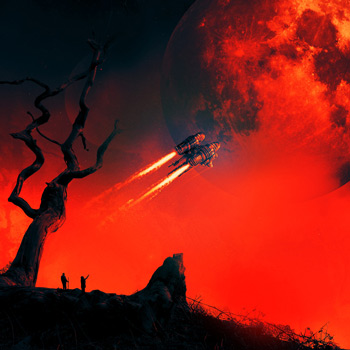
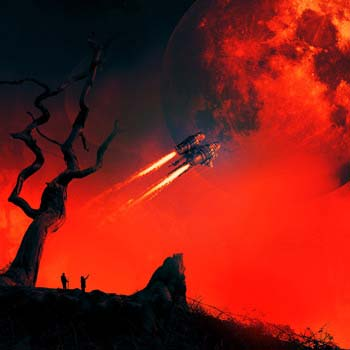
images optimized

diff --git a/index.html b/index.html
@@ -4,7 +4,7 @@
     <meta charset="utf-8">
     <meta name="viewport" content="width=device-width, initial-scale=1, shrink-to-fit=no">
     <meta name="description" content="Across Seconds is a 4 piece experimental/post-prog instrumental rock band. Formed in 2016 in Mumbai, India, they decided to move beyond the clemency of spoken word and let their instruments speak for themselves. Ever since their inception, Across Seconds has always aimed at creating beautifully structured pieces of music that seem like a variegated dance between dreams and reality and take their listeners on a journey from oblivion to tranquility." />
-    <meta name="keywords" content="across seconds, band, music, post rock, indian band, best indian band, top indian band" />
+    <meta name="keywords" content="across seconds, band, music, post rock, indian band, best indian band, top indian band,four lightyears from home, album, music album, post rock album, 4 light years from home, four light years from home, debut album, best album, promising indian band, best indie music, best indie band, best post rock band, post rock band from india" />
     <meta name="author" content="" />
     <link rel="shortcut icon" href="img/favicon.png">
 
@@ -104,6 +104,7 @@
         <div class="row">
           <div id="large-header" class="large-header">
             <canvas id="canvas"></canvas>
+            <h1 class="text-hide">Across Seconds - four lightyears from home</h1>
             <h2>Four Light Years from Home <br/>is out now! <br /><br /><a  href="#store" class="btn btn-outline-light mt-3 js-scroll-trigger">Get it now</a></h2>
           </div>
         </div>
